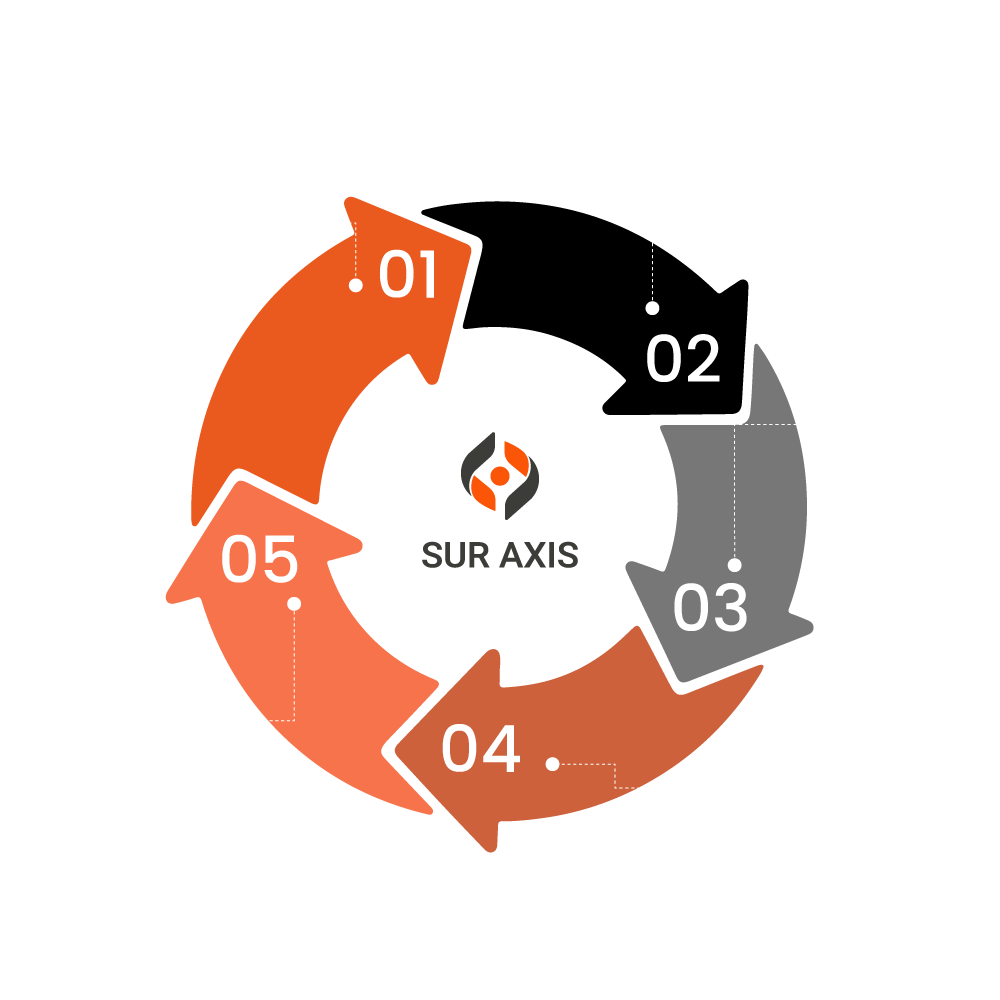
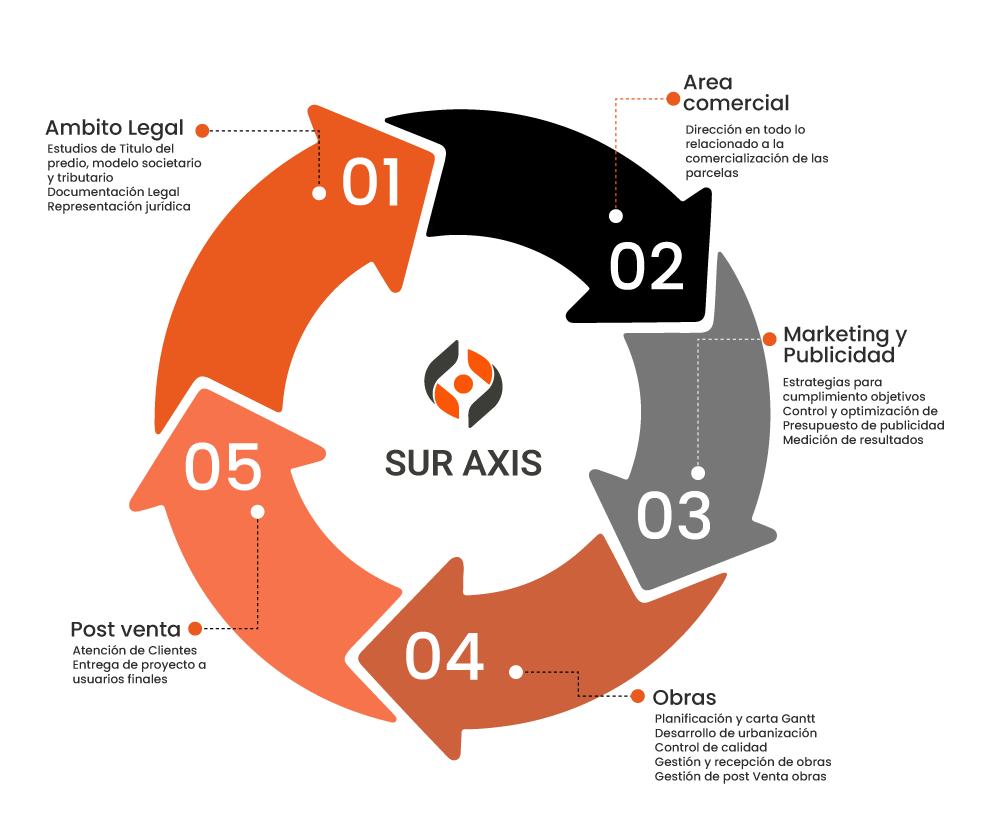
correccion gráfico gestion de proyectos 19-05-25

Changed region(s): [[0.062, 0.0931, 0.93, 0.9308], [0.031, 0.1241, 0.217, 0.2482]]

diff --git a/index.html b/index.html
@@ -191,78 +191,108 @@
         <!-- End Clgun Banner 2 Area -->
 
         <!-- Start Quick Search Area -->
-        <div class="quick-search style-2 ptb-100" id="form-section">
-            <div class="container">
-                <div class="row align-items-center">
-                    <div class="col-lg-6">
-                        <div class="course-search-box" data-aos="fade-right">
-                            <div class="right wow fadeInLeft" data-wow-duration="1s" data-wow-delay=".2s">
-                                <div class="fields">
-                                    <form id="contact_form">
-                                        <h4>¡Quiero más información de como invertir!</h4>
-                                        <div class="returnmessage" data-success="Tu mensaje ha sido enviado. Te contactaremos pronto."></div>
-                                        
-                                        <div class="form-group">
-                                            <input class="form-control styled-input" placeholder="Nombre" type="text" id="searchKey1" required>
-                                        </div>
-
-                                        <div class="form-group">
-                                            <input class="form-control styled-input" placeholder="Teléfono" type="text" id="searchKey2" required>
-                                        </div>
-                                        
-                                        <div class="form-group">
-                                            <input class="form-control styled-input" placeholder="Email" type="email" id="searchKey3" required>
-                                        </div>
-                                        
-                                        <div class="grax_tm_button">
-                                            <button class="default-btn submit-btn" type="submit" id="send_message">Enviar mis datos</button>
-                                        </div>
-                                    </form>
+<div class="quick-search style-2 ptb-100" id="form-section">
+    <div class="container">
+        <div class="row align-items-center">
+            <div class="col-lg-6">
+                <div class="course-search-box" data-aos="fade-right">
+                    <div class="right wow fadeInLeft" data-wow-duration="1s" data-wow-delay=".2s">
+                        <div class="fields">
+                            <form id="contact_form">
+                                <h4>¡Quiero más información de como invertir!</h4>
+                                <div class="returnmessage" data-success="Tu mensaje ha sido enviado. Te contactaremos pronto."></div>
+                                
+                                <div class="form-group">
+                                    <input class="form-control styled-input" placeholder="Nombre" type="text" id="searchKey1" required>
                                 </div>
-                            </div>
-                        </div>
-                    </div>
-                    <div class="col-lg-6">
-                        <div class="quick-content" data-aos="fade-up" data-aos-delay="200">
-                            <div class="sub-title">
-                                <p>Desarrollo de proyectos de parcelación.</p>
-                            </div>
-                            <h2>Oportunidades con Alto Potencial de Retorno</h2>
-                            <p>Nos especializamos en transformar terrenos en oportunidades de inversión para las personas, mediante un modelo 360. Con la correcta entrega a los nuevos propietarios. En Sur Axis nos preocupamos de:</p>
 
-                            <div class="list">
-                                <div class="row">
-                                    <div class="col-lg-6 col-sm-6 col-md-6">
-                                        <div class="list-items">
-                                            <ul>
-                                                <li><i class='bx bx-right-arrow-circle'></i> Ámbito Legal: Estudio de título, modelo societario y representación jurídica.</li>
-                                                <li><i class='bx bx-right-arrow-circle'></i> Área Comercial: Dirección y gestión comercial de parcelas.</li>
-                                            </ul>
-                                        </div>
-                                    </div>
-                                    <div class="col-lg-6 col-sm-6 col-md-6">
-                                        <div class="list-items">
-                                            <ul>
-                                                <li><i class='bx bx-right-arrow-circle'></i> Marketing y Publicidad: Estrategias, control de presupuesto y medición de resultados.</li>
-                                                <li><i class='bx bx-right-arrow-circle'></i>Obras: Planificación, urbanización y control de calidad.</li>
-                                                <li><i class='bx bx-right-arrow-circle'></i>Post Venta: Atención al cliente y entrega del proyecto.</li>
-                                            </ul>
-                                        </div>
-                                    </div>
+                                <div class="form-group">
+                                    <input class="form-control styled-input" placeholder="Teléfono" type="text" id="searchKey2" required>
                                 </div>
-                            </div>
+                                
+                                <div class="form-group">
+                                    <input class="form-control styled-input" placeholder="Email" type="email" id="searchKey3" required>
+                                </div>
+                                
+                                <div class="grax_tm_button">
+                                    <button class="default-btn submit-btn" type="submit" id="send_message">Enviar mis datos</button>
+                                </div>
+                            </form>
                         </div>
                     </div>
                 </div>
             </div>
+            <div class="col-lg-6">
+                <div class="quick-content" data-aos="fade-up" data-aos-delay="200">
+                    <div class="sub-title">
+                        <p>Desarrollo de proyectos de parcelación.</p>
+                    </div>
+                    <h2>Oportunidades con Alto Potencial de Retorno</h2>
+                    <p>Nos especializamos en transformar terrenos en oportunidades de inversión para las personas, mediante un modelo 360. Con la correcta entrega a los nuevos propietarios. En Sur Axis nos preocupamos de:</p>
+                    
+                    <!-- Contenedor de imágenes superpuestas -->
+
+
+                    
+                    <div class="management-image-container">
+    <a href="javascript:void(0)" class="image-modal-trigger">
+        <img src="/assets/img/all-img/gestiondeproyectos.png" alt="Gestión de Proyectos" class="responsive-management-image">
+    </a>
+</div>
+
+<!-- Modal mejorado para mantener proporciones -->
+<div id="imageModal" class="modal">
+    <span class="close-modal">&times;</span>
+    <div class="modal-image-container">
+        <img class="modal-content" id="expandedImage" src="" alt="">
+    </div>
+</div>
+
+<!-- Modal para imagen ampliada -->
+<div id="imageModal" class="modal">
+    <span class="close-modal">&times;</span>
+    <img class="modal-content" id="expandedImage">
+    <div id="caption"></div>
+</div>
+                    <!-- Fin contenedor imágenes -->
+                    
+                    <!-- Sección de lista (comentada) -->
+                    <!--
+                    <div class="list">
+                        <div class="row">
+                            <div class="col-lg-6 col-sm-6 col-md-6">
+                                <div class="list-items">
+                                    <ul>
+                                        <li><i class='bx bx-right-arrow-circle'></i> Ámbito Legal: Estudio de título, modelo societario y representación jurídica.</li>
+                                        <li><i class='bx bx-right-arrow-circle'></i> Área Comercial: Dirección y gestión comercial de parcelas.</li>
+                                    </ul>
+                                </div>
+                            </div>
+                            <div class="col-lg-6 col-sm-6 col-md-6">
+                                <div class="list-items">
+                                    <ul>
+                                        <li><i class='bx bx-right-arrow-circle'></i> Marketing y Publicidad: Estrategias, control de presupuesto y medición de resultados.</li>
+                                        <li><i class='bx bx-right-arrow-circle'></i>Obras: Planificación, urbanización y control de calidad.</li>
+                                        <li><i class='bx bx-right-arrow-circle'></i>Post Venta: Atención al cliente y entrega del proyecto.</li>
+                                    </ul>
+                                </div>
+                            </div>
+                        </div>
+                    </div>
+                    -->
+                </div>
+            </div>
         </div>
-        <!-- End Quick Search Area -->
+    </div>
+</div>
+<!-- End Quick Search Area -->
          
-        <!-- Modelo de Negocio -->
+        <!-- Modelo de Negocio 
         <h1 class="centered-title">Gestión de Proyectos:</h1>
         <div class="subscribe-area">
             <div class="mapa-overlay"></div>
         </div>
+        -->
 
         <!-- Start Features Area 2 -->
         <div class="features-area-2">
@@ -363,7 +393,7 @@
         </div>
 
         <h1 class="centered-title">Modelo de Negocio</h1>
-        <div class="subscribe-area">
+        <div class="subscribe-area2">
             <div class="mapa-overlay2"></div>
         </div>
 

diff --git a/assets/css/style.css b/assets/css/style.css
@@ -5372,3 +5372,89 @@ Go Top CSS
     margin-top: 40px;
     margin-bottom: 40px;
 }
+/* Contenedor imagen principal */
+.management-image-container {
+    width: 100%;
+    max-width: 800px;
+    margin: 30px auto;
+    text-align: center;
+    cursor: zoom-in;
+}
+
+.responsive-management-image {
+    max-width: 100%;
+    height: auto;
+    border-radius: 8px;
+    box-shadow: 0 4px 12px rgba(0,0,0,0.1);
+    transition: transform 0.3s ease;
+}
+
+.responsive-management-image:hover {
+    transform: scale(1.02);
+}
+
+/* Modal mejorado */
+.modal {
+    display: none;
+    position: fixed;
+    z-index: 1000;
+    top: 0;
+    left: 0;
+    width: 100%;
+    height: 100%;
+    background-color: rgba(0,0,0,0.9);
+    overflow: auto;
+    padding: 20px;
+    box-sizing: border-box;
+}
+
+.modal-image-container {
+    display: flex;
+    justify-content: center;
+    align-items: center;
+    min-height: 100%;
+}
+
+.modal-content {
+    max-width: 90vw;
+    max-height: 90vh;
+    width: auto;
+    height: auto;
+    object-fit: contain;
+    animation: zoom 0.3s;
+    border-radius: 4px;
+}
+
+.close-modal {
+    position: absolute;
+    top: 30px;
+    right: 30px;
+    color: white;
+    font-size: 35px;
+    font-weight: bold;
+    cursor: pointer;
+    transition: 0.3s;
+}
+
+.close-modal:hover {
+    color: #ccc;
+}
+
+@keyframes zoom {
+    from {transform: scale(0.9); opacity: 0}
+    to {transform: scale(1); opacity: 1}
+}
+
+/* Responsive */
+@media (max-width: 768px) {
+    .close-modal {
+        top: 15px;
+        right: 15px;
+        font-size: 30px;
+    }
+    
+    .modal-content {
+        max-width: 95vw;
+        max-height: 95vh;
+    }
+}

diff --git a/assets/js/main.js b/assets/js/main.js
@@ -323,3 +323,28 @@ function grax_tm_contact_form(){
 	});
 	
 }
+// JavaScript para el modal
+document.addEventListener('DOMContentLoaded', function() {
+    const modal = document.getElementById('imageModal');
+    const modalImg = document.getElementById('expandedImage');
+    const captionText = document.getElementById('caption');
+    const triggers = document.querySelectorAll('.image-modal-trigger');
+    
+    triggers.forEach(trigger => {
+        trigger.onclick = function() {
+            modal.style.display = "block";
+            modalImg.src = this.querySelector('img').src;
+            captionText.innerHTML = this.querySelector('img').alt;
+        }
+    });
+    
+    document.querySelector('.close-modal').onclick = function() {
+        modal.style.display = "none";
+    }
+    
+    modal.onclick = function(event) {
+        if (event.target === modal) {
+            modal.style.display = "none";
+        }
+    }
+});
